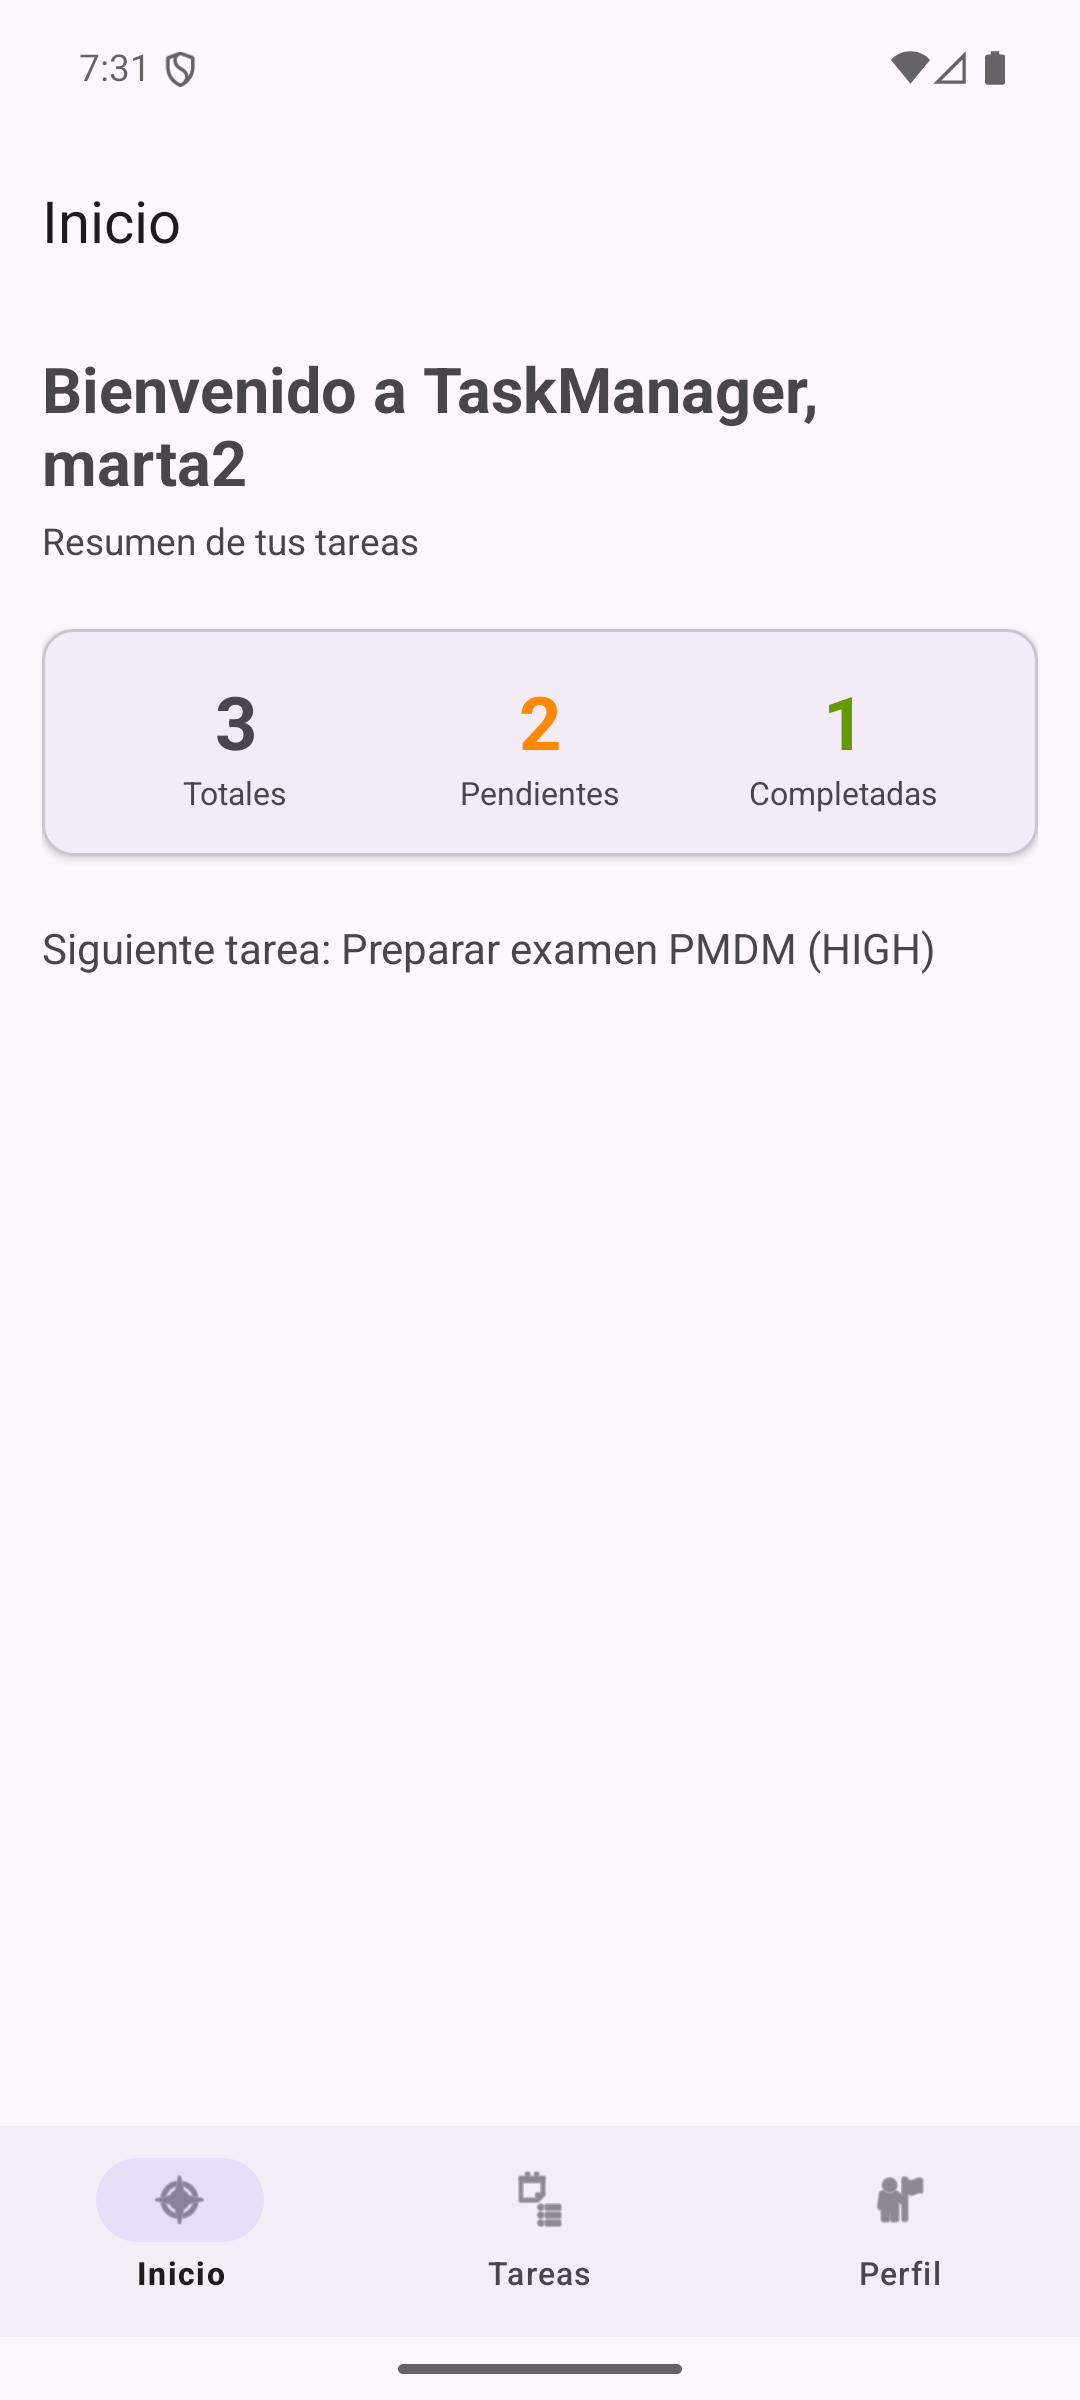
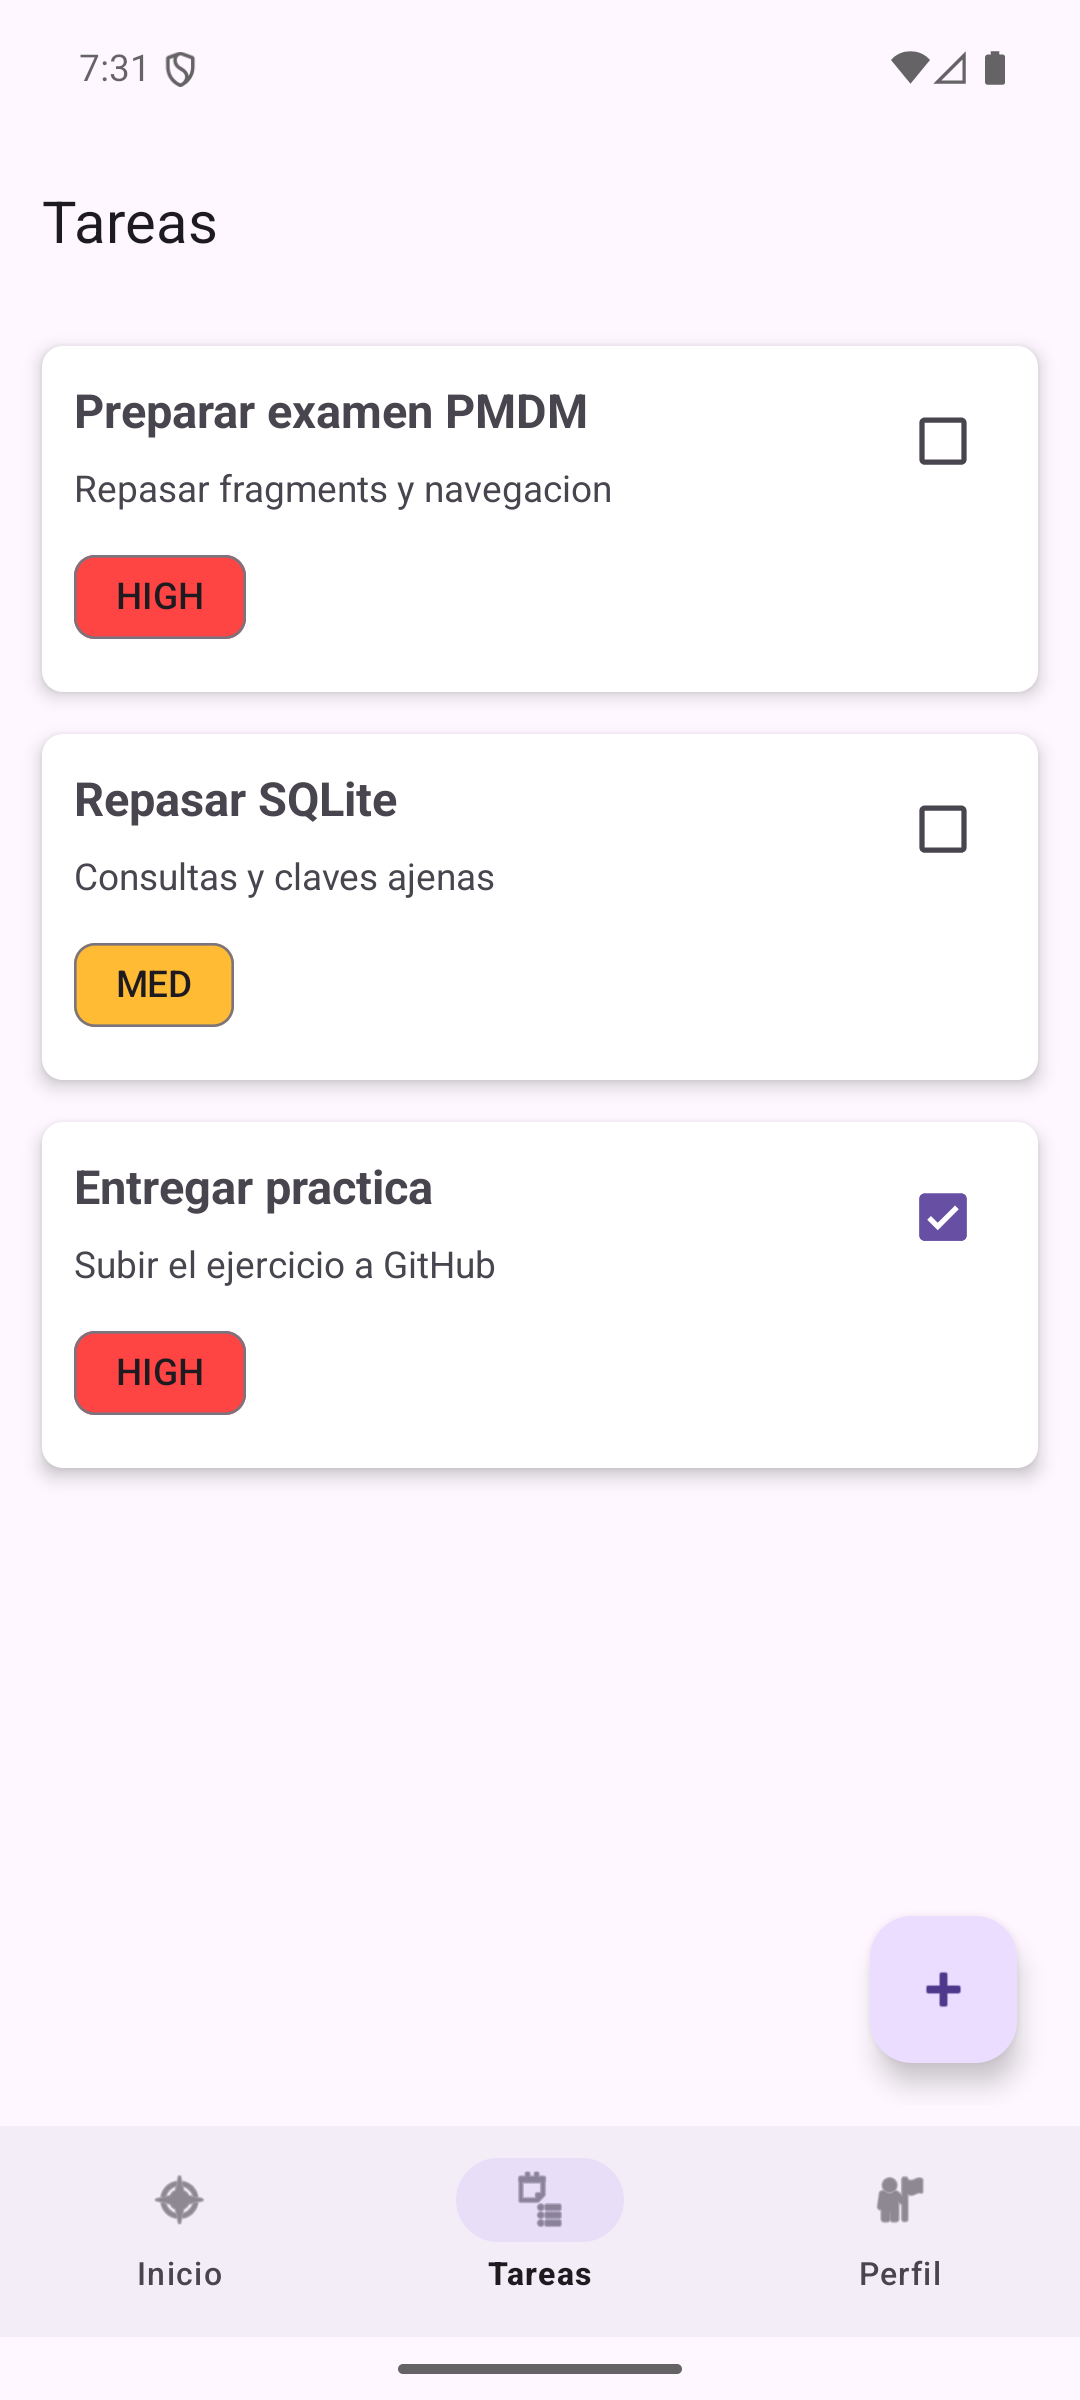
Add project images for Task Manager and Dining Philosophers

diff --git a/src/data/proyectos.js b/src/data/proyectos.js
@@ -101,6 +101,7 @@ export const proyectos = [
       es: "CRUD privado por usuario sobre SQLite, prioridades y navegación entre pantallas.",
       en: "Per-user CRUD over SQLite, task priorities and screen navigation.",
     },
+    // Captura de la lista de tareas; se entiende mejor el CRUD que en Inicio.
     imagen: `${import.meta.env.BASE_URL}img/task-manager.png`,
     repo: "https://github.com/maragramonte/CESUR-github/tree/main/Dispositivos%20Moviles%20-%20TaskManager",
     tecnologias: {
@@ -136,6 +137,12 @@ export const proyectos = [
       en: "The table coordinates turns and resources with wait/notifyAll and a semaphore to prevent deadlocks.",
     },
     repo: "https://github.com/maragramonte/CESUR-github/tree/main/hungry-philosophers",
+    // Ilustración conceptual: el repositorio no incluye una captura de la app.
+    imagen: `${import.meta.env.BASE_URL}img/dining-philosophers.svg`,
+    imagenAlt: {
+      es: "Ilustración de seis filósofos compartiendo seis palillos alrededor de una mesa.",
+      en: "Illustration of six philosophers sharing six chopsticks around a table.",
+    },
     tecnologias: {
       es: ["Java", "Swing", "Hilos", "Semáforos", "Sincronización"],
       en: ["Java", "Swing", "Threads", "Semaphores", "Synchronization"],

diff --git a/src/components/Projects.jsx b/src/components/Projects.jsx
@@ -53,6 +53,7 @@ export default function Projects({ tecnologiaActiva, onQuitarFiltro }) {
               decisiones={proyecto.decisiones}
               decisionesTexto={proyecto.decisionesTexto?.[idioma] ?? t.projects.verDecisiones}
               imagen={proyecto.imagen}
+              imagenAlt={proyecto.imagenAlt?.[idioma]}
               estado={proyecto.estado?.[idioma]}
               tecnologias={proyecto.tecnologias[idioma]}
               destacar={tecnologiaActiva}

diff --git a/src/components/ProjectCard.jsx b/src/components/ProjectCard.jsx
@@ -30,6 +30,7 @@ export default function ProjectCard({
   decisiones,
   decisionesTexto,
   imagen,
+  imagenAlt,
   estado,
   tecnologias,
   destacar,
@@ -57,7 +58,7 @@ export default function ProjectCard({
         <img
           className="card__img"
           src={imagen}
-          alt={`Captura del proyecto ${titulo}`}
+          alt={imagenAlt ?? `Captura del proyecto ${titulo}`}
           width="400"
           height="300"
           loading="lazy"
